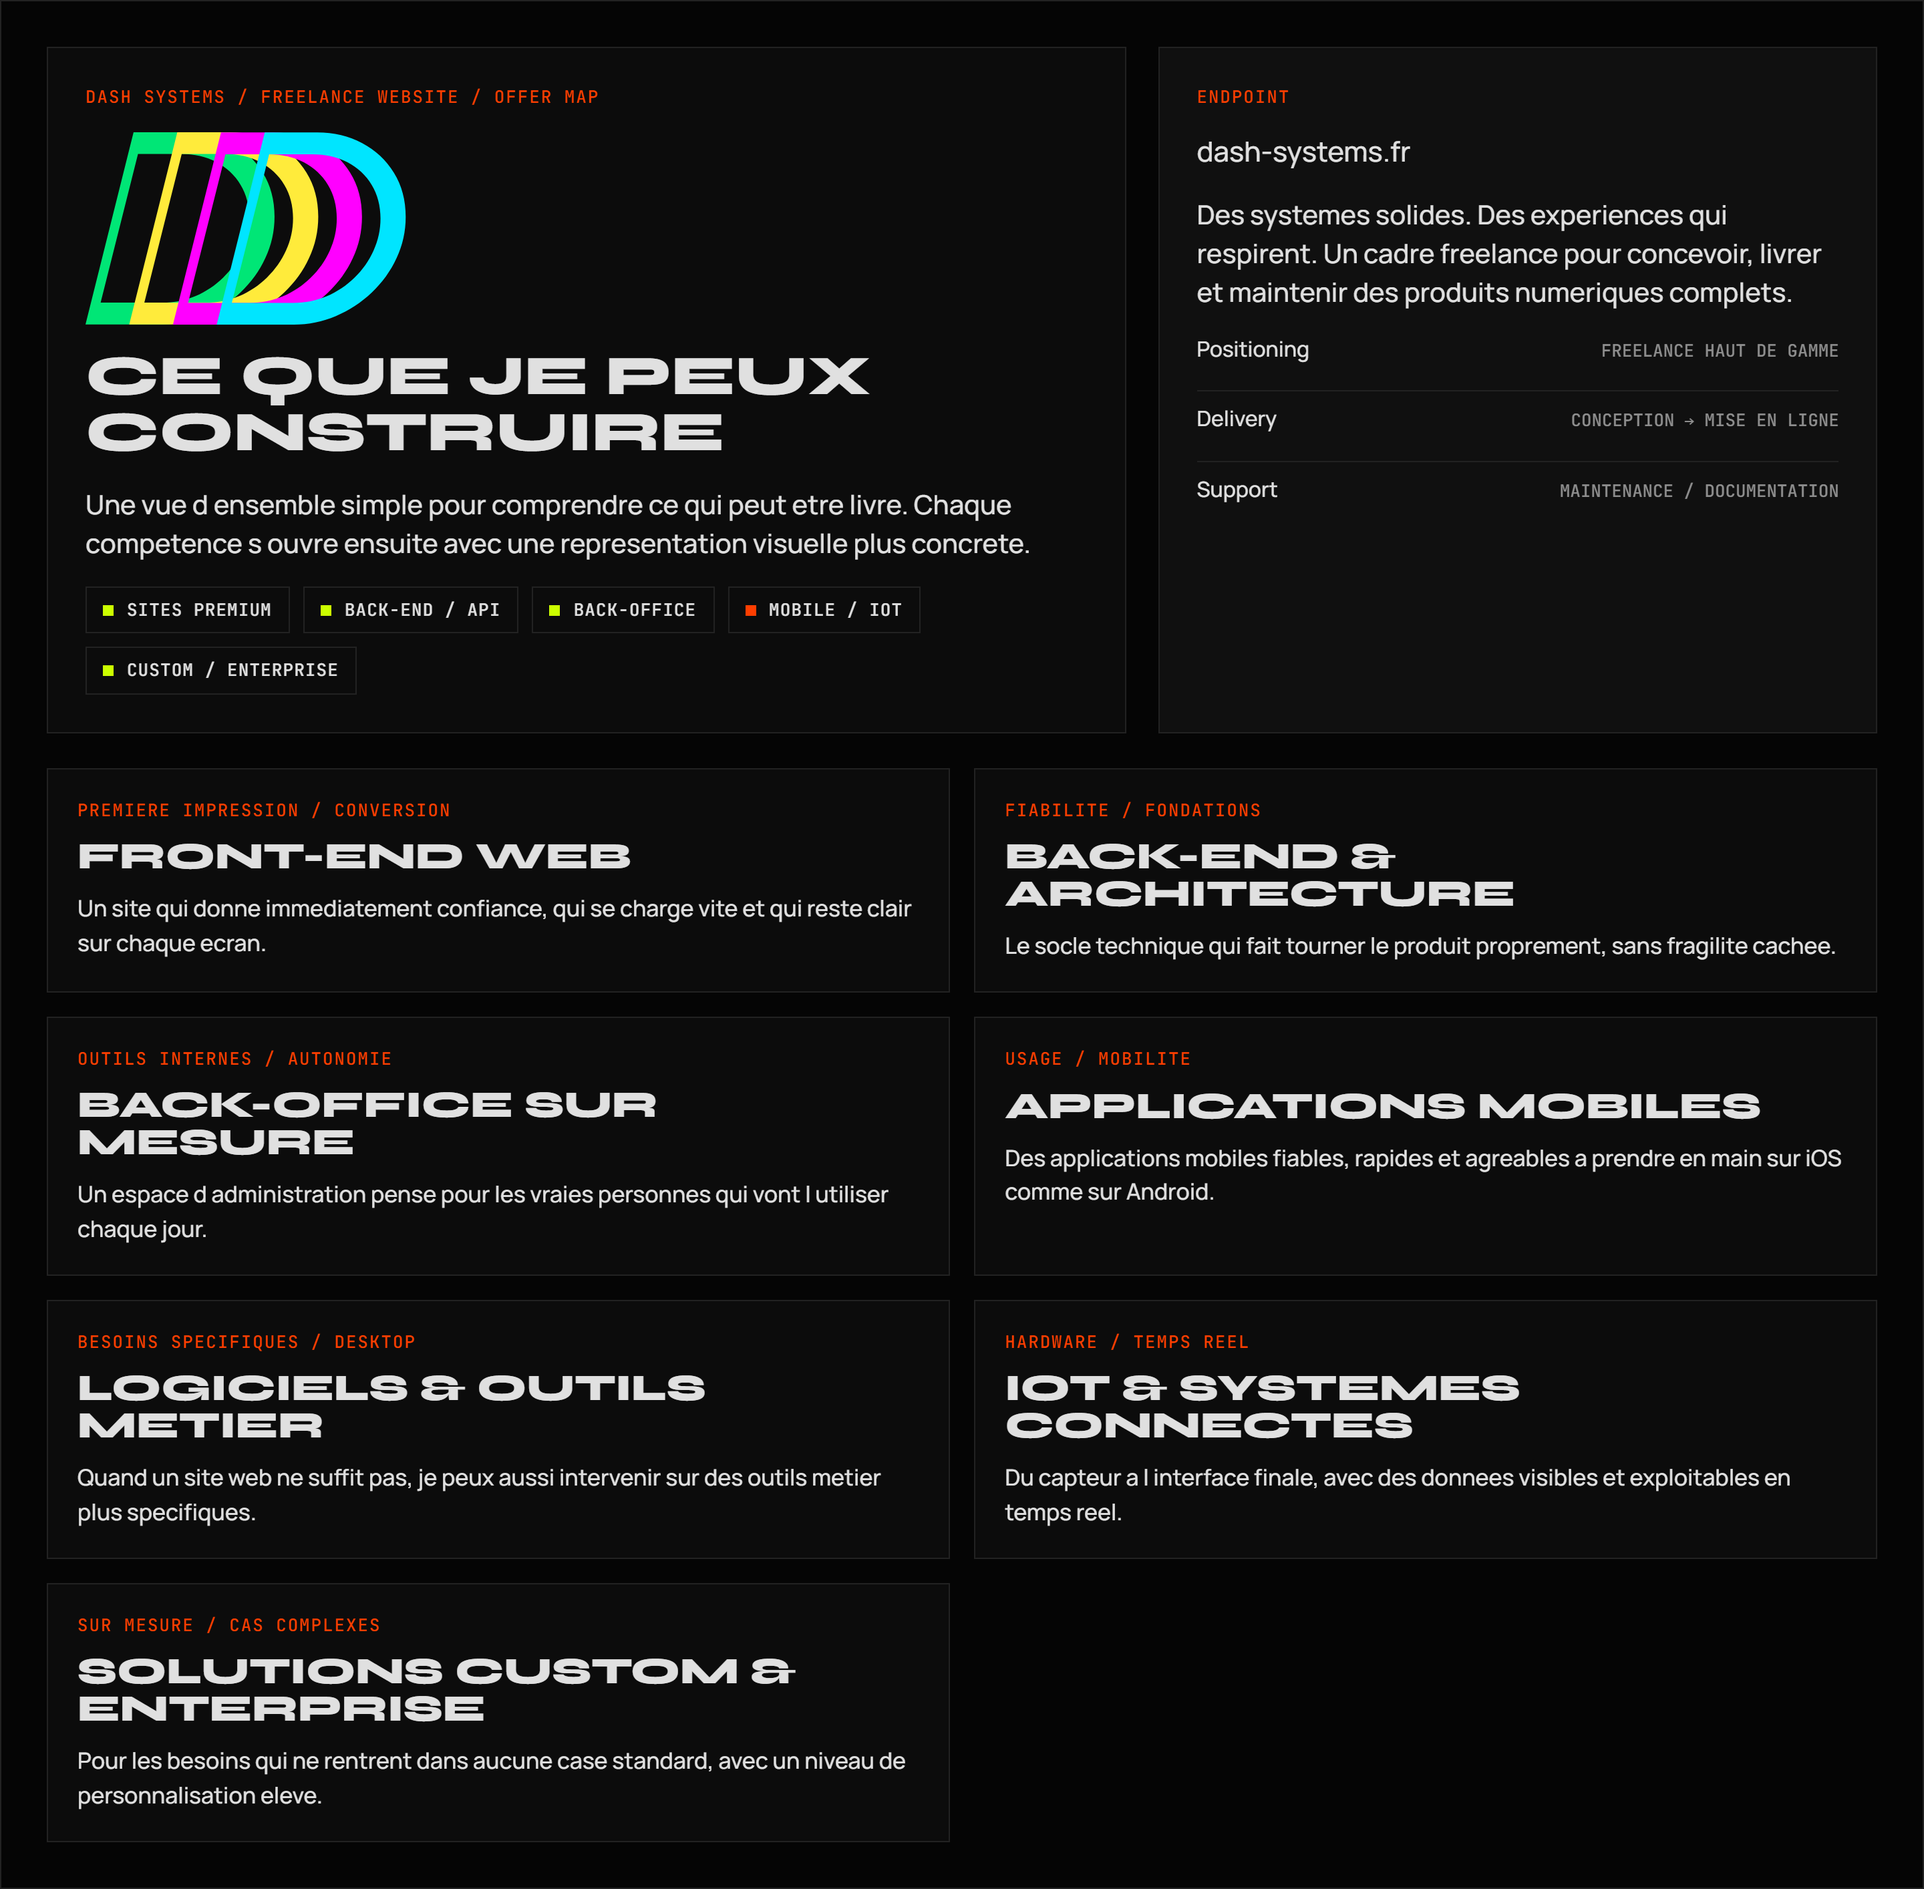
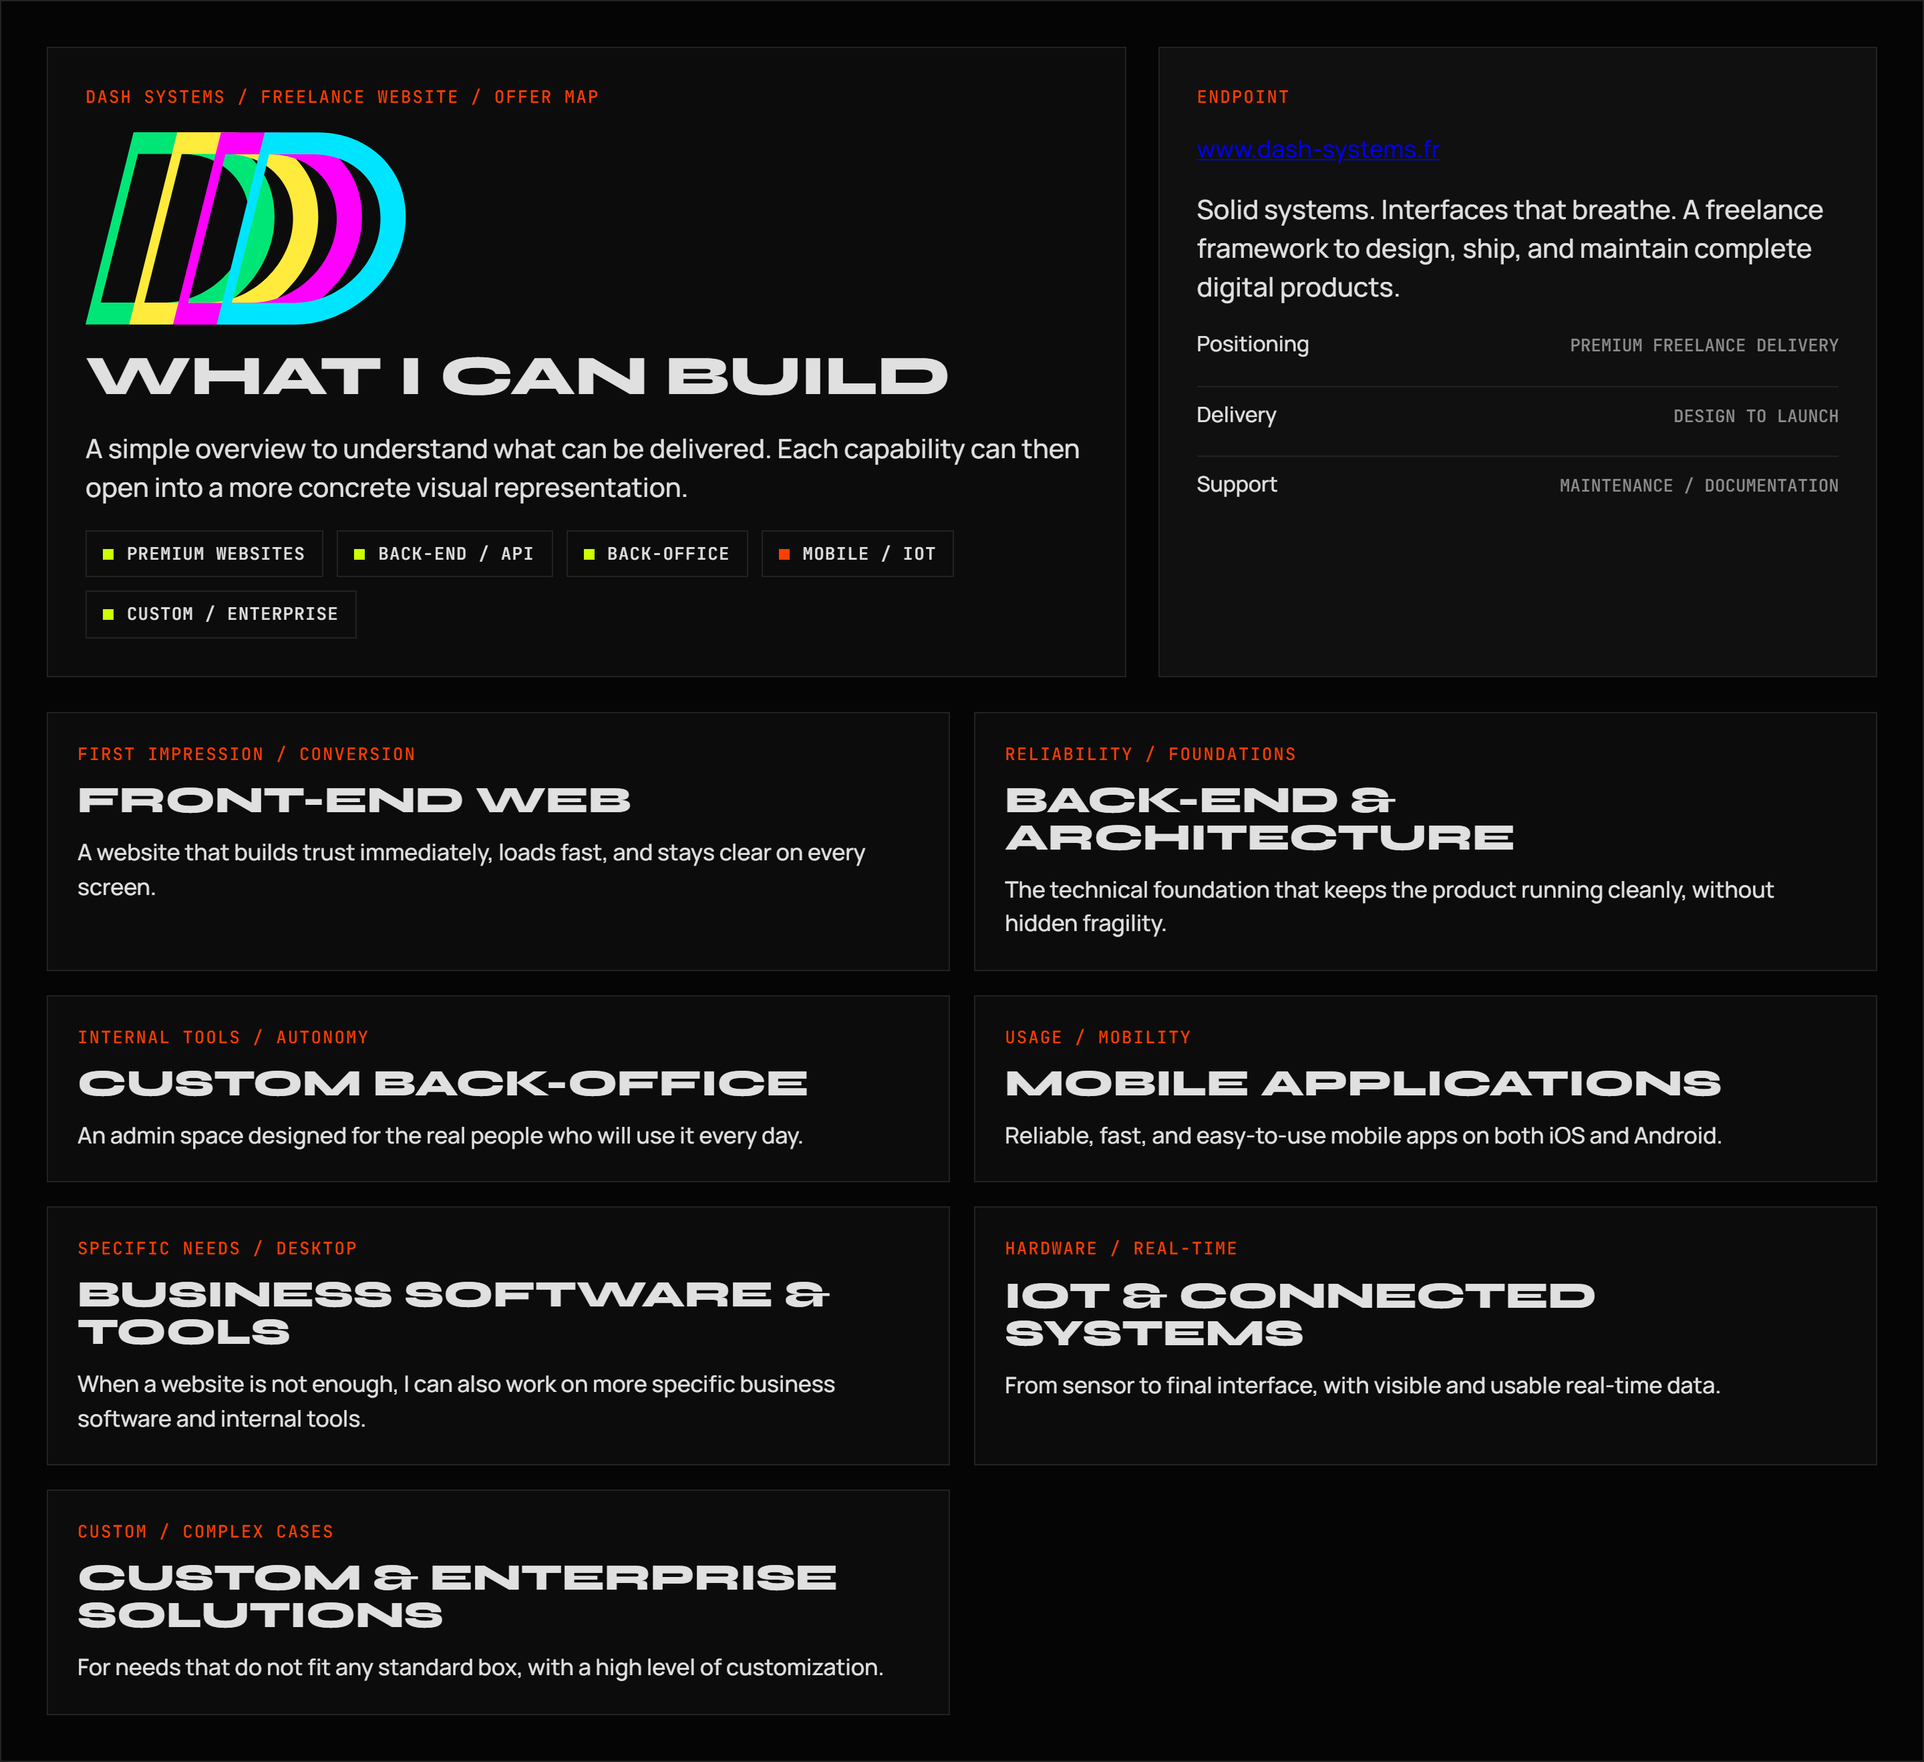
Translate Dash Systems content to English
Replace French copy with English equivalents across Dash Systems assets. Updated capability titles, labels and copy in profile-assets/generate-profile-assets.mjs and the generated HTML (profile-assets/html/dash-systems-capabilities.html), changed tag label to "PREMIUM WEBSITES", adjusted panel headlines and detail metadata (positioning, delivery). Also removed a stray blank line in aeromodel-showcase.html and replaced the binary dash-systems-capabilities.png asset.

diff --git a/profile-assets/html/dash-systems-capabilities.html b/profile-assets/html/dash-systems-capabilities.html
@@ -197,13 +197,13 @@
             <div class="panel capability-main">
               <div class="mono accent-orange eyebrow">Dash Systems / freelance website / offer map</div>
[1 lines of base64/hex data omitted]
-              <div class="headline split-title">Ce que je peux construire</div>
-              <p class="split-text">Une vue d ensemble simple pour comprendre ce qui peut etre livre. Chaque competence s ouvre ensuite avec une representation visuelle plus concrete.</p>
+              <div class="headline split-title">What I can build</div>
+              <p class="split-text">A simple overview to understand what can be delivered. Each capability can then open into a more concrete visual representation.</p>
               <div style="display:flex; flex-wrap:wrap; gap:10px; max-width:100%;">
                 
     <div class="panel tag">
       <div class="tag-dot" style="background:#CCFF00;"></div>
-      <div class="mono tag-label">SITES PREMIUM</div>
+      <div class="mono tag-label">PREMIUM WEBSITES</div>
     </div>
                 
     <div class="panel tag">
@@ -230,15 +230,15 @@
             <div class="panel-alt capability-main">
               <div class="mono accent-orange eyebrow">Endpoint</div>
               <a href="https://www.dash-systems.fr/" target="_blank" rel="noreferrer" class="capability-url">www.dash-systems.fr</a>
-              <p class="split-text">Des systemes solides. Des experiences qui respirent. Un cadre freelance pour concevoir, livrer et maintenir des produits numeriques complets.</p>
+              <p class="split-text">Solid systems. Interfaces that breathe. A freelance framework to design, ship, and maintain complete digital products.</p>
               <div class="detail-list">
                 <div class="detail-item">
                   <div class="detail-title">Positioning</div>
-                  <div class="mono detail-meta">Freelance haut de gamme</div>
+                  <div class="mono detail-meta">Premium freelance delivery</div>
                 </div>
                 <div class="detail-item">
                   <div class="detail-title">Delivery</div>
-                  <div class="mono detail-meta">Conception → mise en ligne</div>
+                  <div class="mono detail-meta">Design to launch</div>
                 </div>
                 <div class="detail-item">
                   <div class="detail-title">Support</div>
@@ -250,39 +250,39 @@
           <div class="capability-grid">
             
                   <article class="panel capability-card">
-                    <div class="mono accent-orange capability-card-label">Premiere impression / conversion</div>
+                    <div class="mono accent-orange capability-card-label">First impression / conversion</div>
                     <h3 class="headline capability-card-title">Front-end Web</h3>
-                    <p class="capability-card-copy">Un site qui donne immediatement confiance, qui se charge vite et qui reste clair sur chaque ecran.</p>
+                    <p class="capability-card-copy">A website that builds trust immediately, loads fast, and stays clear on every screen.</p>
                   </article>
                   <article class="panel capability-card">
-                    <div class="mono accent-orange capability-card-label">Fiabilite / fondations</div>
+                    <div class="mono accent-orange capability-card-label">Reliability / foundations</div>
                     <h3 class="headline capability-card-title">Back-end & Architecture</h3>
-                    <p class="capability-card-copy">Le socle technique qui fait tourner le produit proprement, sans fragilite cachee.</p>
+                    <p class="capability-card-copy">The technical foundation that keeps the product running cleanly, without hidden fragility.</p>
                   </article>
                   <article class="panel capability-card">
-                    <div class="mono accent-orange capability-card-label">Outils internes / autonomie</div>
-                    <h3 class="headline capability-card-title">Back-office sur mesure</h3>
-                    <p class="capability-card-copy">Un espace d administration pense pour les vraies personnes qui vont l utiliser chaque jour.</p>
+                    <div class="mono accent-orange capability-card-label">Internal tools / autonomy</div>
+                    <h3 class="headline capability-card-title">Custom Back-office</h3>
+                    <p class="capability-card-copy">An admin space designed for the real people who will use it every day.</p>
                   </article>
                   <article class="panel capability-card">
-                    <div class="mono accent-orange capability-card-label">Usage / mobilite</div>
-                    <h3 class="headline capability-card-title">Applications mobiles</h3>
-                    <p class="capability-card-copy">Des applications mobiles fiables, rapides et agreables a prendre en main sur iOS comme sur Android.</p>
+                    <div class="mono accent-orange capability-card-label">Usage / mobility</div>
+                    <h3 class="headline capability-card-title">Mobile Applications</h3>
+                    <p class="capability-card-copy">Reliable, fast, and easy-to-use mobile apps on both iOS and Android.</p>
                   </article>
                   <article class="panel capability-card">
-                    <div class="mono accent-orange capability-card-label">Besoins specifiques / desktop</div>
-                    <h3 class="headline capability-card-title">Logiciels & outils metier</h3>
-                    <p class="capability-card-copy">Quand un site web ne suffit pas, je peux aussi intervenir sur des outils metier plus specifiques.</p>
+                    <div class="mono accent-orange capability-card-label">Specific needs / desktop</div>
+                    <h3 class="headline capability-card-title">Business Software & Tools</h3>
+                    <p class="capability-card-copy">When a website is not enough, I can also work on more specific business software and internal tools.</p>
                   </article>
                   <article class="panel capability-card">
-                    <div class="mono accent-orange capability-card-label">Hardware / temps reel</div>
-                    <h3 class="headline capability-card-title">IoT & systemes connectes</h3>
-                    <p class="capability-card-copy">Du capteur a l interface finale, avec des donnees visibles et exploitables en temps reel.</p>
+                    <div class="mono accent-orange capability-card-label">Hardware / real-time</div>
+                    <h3 class="headline capability-card-title">IoT & Connected Systems</h3>
+                    <p class="capability-card-copy">From sensor to final interface, with visible and usable real-time data.</p>
                   </article>
                   <article class="panel capability-card">
-                    <div class="mono accent-orange capability-card-label">Sur mesure / cas complexes</div>
-                    <h3 class="headline capability-card-title">Solutions custom & enterprise</h3>
-                    <p class="capability-card-copy">Pour les besoins qui ne rentrent dans aucune case standard, avec un niveau de personnalisation eleve.</p>
+                    <div class="mono accent-orange capability-card-label">Custom / complex cases</div>
+                    <h3 class="headline capability-card-title">Custom & Enterprise Solutions</h3>
+                    <p class="capability-card-copy">For needs that do not fit any standard box, with a high level of customization.</p>
                   </article>
           </div>
         </div>

diff --git a/profile-assets/html/aeromodel-showcase.html b/profile-assets/html/aeromodel-showcase.html
@@ -200,7 +200,6 @@
               <div class="headline split-title">Aircraft visuals, faster than flight</div>
               <p class="split-text">Compose angle-specific aircraft images with airline liveries in milliseconds for aviation, compliance, branding, and marketing workflows.</p>
               <div style="display:flex; flex-wrap:wrap; gap:10px; max-width:100%;">
-              
                 
     <div class="panel tag">
       <div class="tag-dot" style="background:#FF3E00;"></div>
